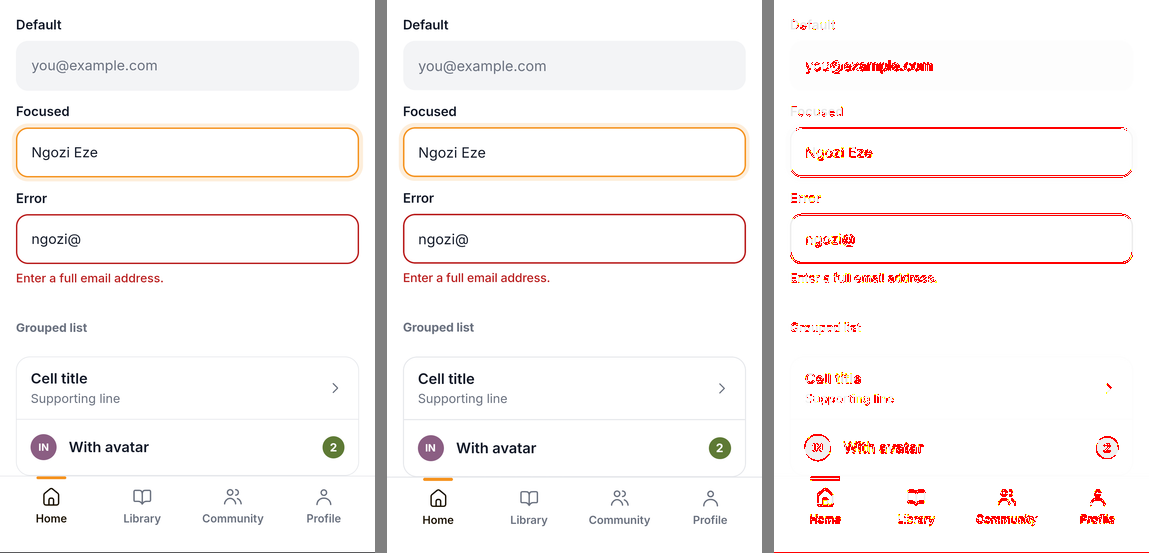
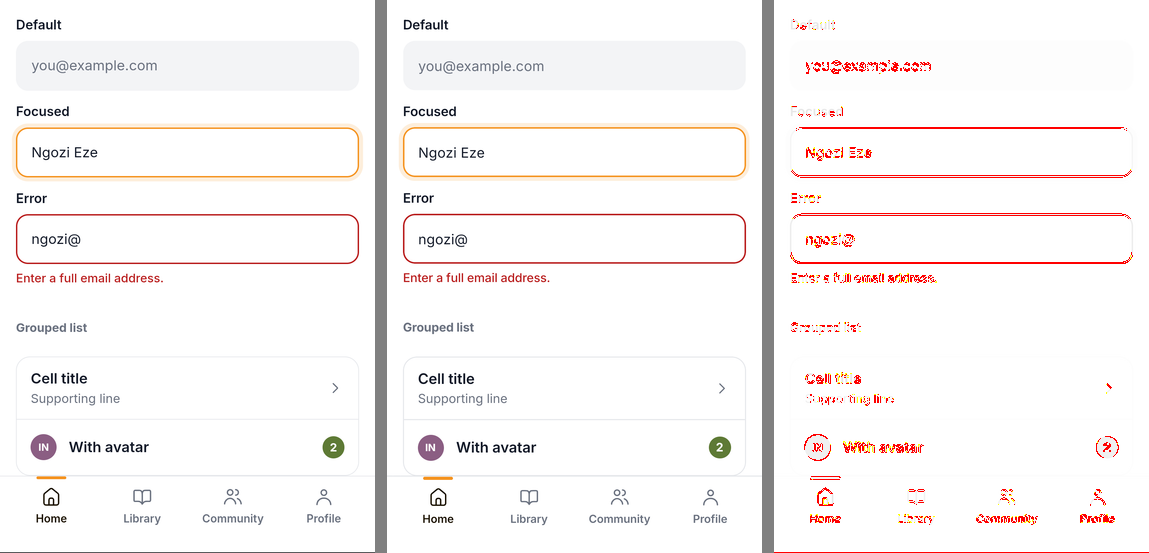
wip(00): Cell draws its Group divider inside its 56px; TextInput font size snapped like Text (kit-b 3.2%)
.cell + .cell puts the 1px divider inside the cell's border-box min-height, but Group wrapped each
row in a bordered View, so every following Cell was 57px and everything below drifted.

diff --git a/packages/ui/src/components/containers.tsx b/packages/ui/src/components/containers.tsx
@@ -1,4 +1,12 @@
-import { Children, isValidElement, useEffect, useState, type ReactNode } from 'react';
+import {
+  Children,
+  createContext,
+  isValidElement,
+  useContext,
+  useEffect,
+  useState,
+  type ReactNode,
+} from 'react';
 import { Modal, Pressable, ScrollView, View, type StyleProp, type ViewStyle } from 'react-native';
 import Animated, { runOnJS, useAnimatedStyle, useSharedValue, withTiming } from 'react-native-reanimated';
 import { useSafeAreaInsets } from 'react-native-safe-area-context';
@@ -188,6 +196,9 @@ export function Card({ soft, pad = true, onPress, accessibilityLabel, style, chi
 }
 
 /* ─── Group + Cell ───────────────────────────────────────────────────────── */
+/** True for a Cell that follows another row in a Group (it draws the 1px divider). */
+const GroupDivider = createContext(false);
+
 /** Rounded list container (`.group`); `flush` = edge to edge. Cells get 1px dividers. */
 export function Group({
   flush,
@@ -216,11 +227,19 @@ export function Group({
         style,
       ]}
     >
-      {items.map((child, i) => (
-        <View key={child.key ?? i} style={i > 0 ? { borderTopWidth: 1, borderTopColor: c.line } : null}>
-          {child}
-        </View>
-      ))}
+      {items.map((child, i) =>
+        // `.cell + .cell` draws its divider inside the cell's min-height (border-box), so a Cell
+        // draws its own; anything else gets it on a wrapper.
+        child.type === Cell ? (
+          <GroupDivider.Provider key={child.key ?? i} value={i > 0}>
+            {child}
+          </GroupDivider.Provider>
+        ) : (
+          <View key={child.key ?? i} style={i > 0 ? { borderTopWidth: 1, borderTopColor: c.line } : null}>
+            {child}
+          </View>
+        ),
+      )}
     </View>
   );
 }
@@ -259,6 +278,7 @@ export function Cell({
   flush,
 }: CellProps) {
   const { c, s } = useTheme();
+  const divider = useContext(GroupDivider);
   const body = (
     <>
       {lead ? <View>{lead}</View> : null}
@@ -301,6 +321,7 @@ export function Cell({
     paddingHorizontal: s(flush ? 16 : 14),
     minHeight: s(56),
     backgroundColor: highlight ? c.orgTint2 : 'transparent',
+    ...(divider ? { borderTopWidth: 1, borderTopColor: c.line } : null),
   };
   if (!onPress) return <View style={style}>{body}</View>;
   return (

diff --git a/packages/ui/src/Text.tsx b/packages/ui/src/Text.tsx
@@ -112,6 +112,21 @@ function androidLineBox(style: TextStyle, fit: boolean, maxScale?: number): Text
   return lineBox(style, m, r, lhPx, startPx, sizePx);
 }
 
+/**
+ * Font size and letter spacing for text outside `Text` (TextInput) on Android: the nearest device
+ * pixel instead of RN's round-up, the remainder as letter spacing (see androidLineBox).
+ */
+export function androidFontSize(
+  fontSize: number,
+  family: string,
+): Pick<TextStyle, 'fontSize' | 'letterSpacing'> {
+  const m = fontMetrics[family];
+  if (Platform.OS !== 'android' || !m) return { fontSize };
+  const r = PixelRatio.get() * PixelRatio.getFontScale();
+  const px = Math.max(1, Math.round(fontSize * r));
+  return { fontSize: (px - 0.01) / r, letterSpacing: (fontSize - px / r) * m[2] };
+}
+
 /** The size RN's fit search ends at from `start` px when the text fits (float32, like the Kotlin). */
 function fitResult(start: number, min: number): number {
   let size = start;

diff --git a/packages/ui/src/components/forms.tsx b/packages/ui/src/components/forms.tsx
@@ -10,7 +10,7 @@ import { fontFamily } from '../fonts';
 import { Icon, type IconName } from '../Icon';
 import { ease } from '../motion';
 import { Press } from '../Pressable';
-import { Text } from '../Text';
+import { Text, androidFontSize } from '../Text';
 import { useTheme } from '../theme';
 import { motion, rgba } from '../tokens';
 
@@ -112,7 +112,7 @@ export function Field({
               paddingVertical: s(12),
               paddingHorizontal: 0,
               fontFamily: fontFamily('ui', 400),
-              fontSize: fs,
+              ...androidFontSize(fs, fontFamily('ui', 400)),
               color: c.ink,
             }}
           />
